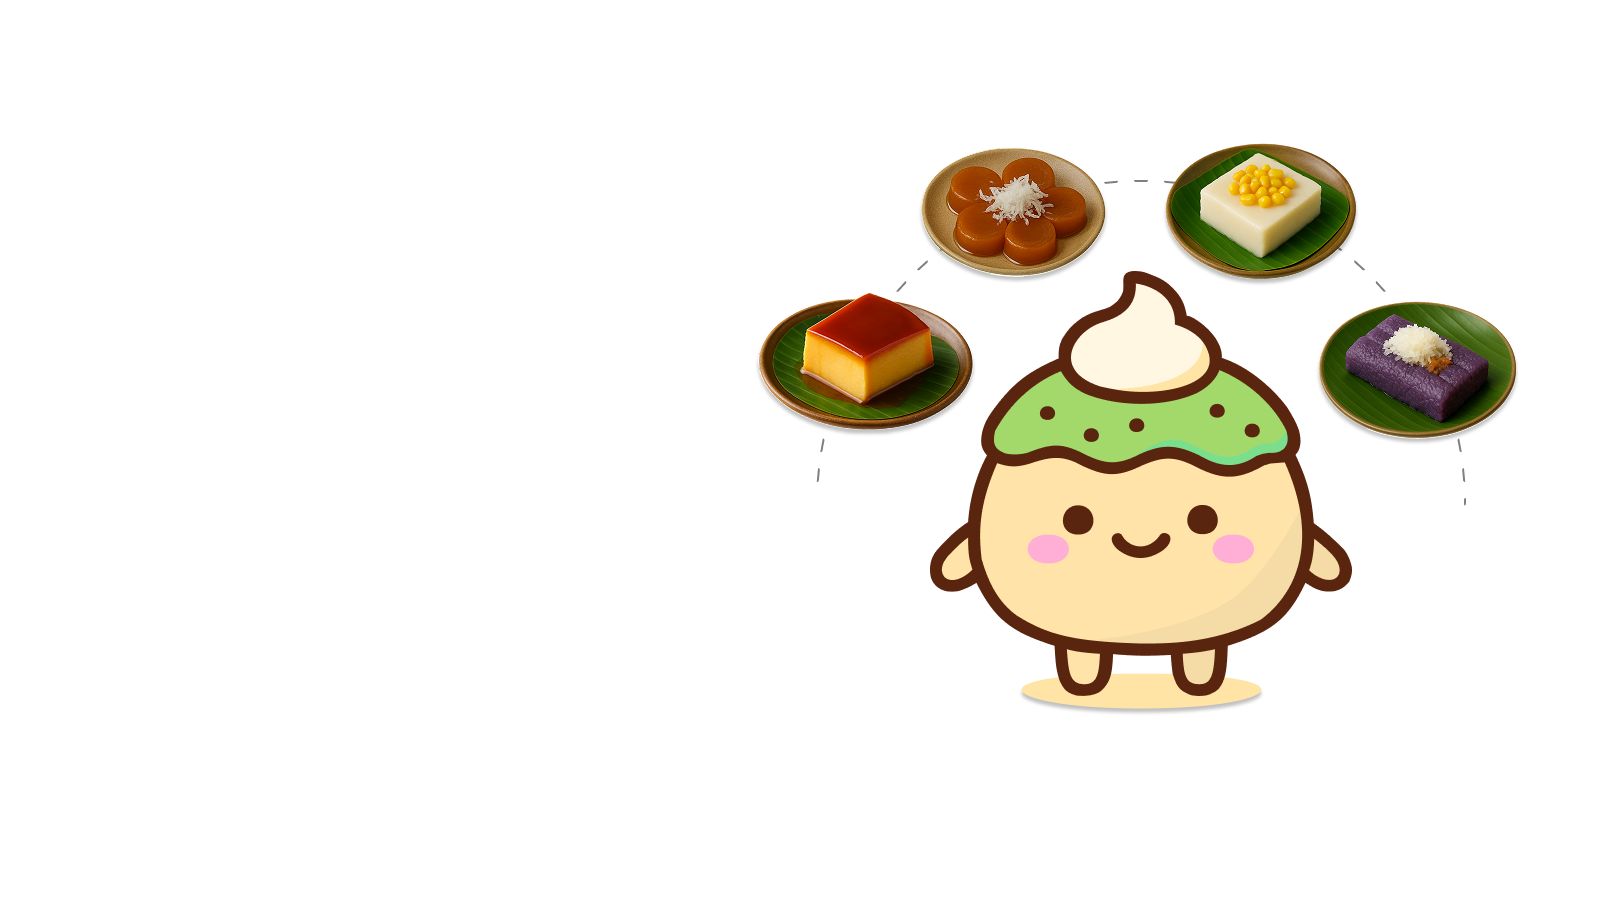
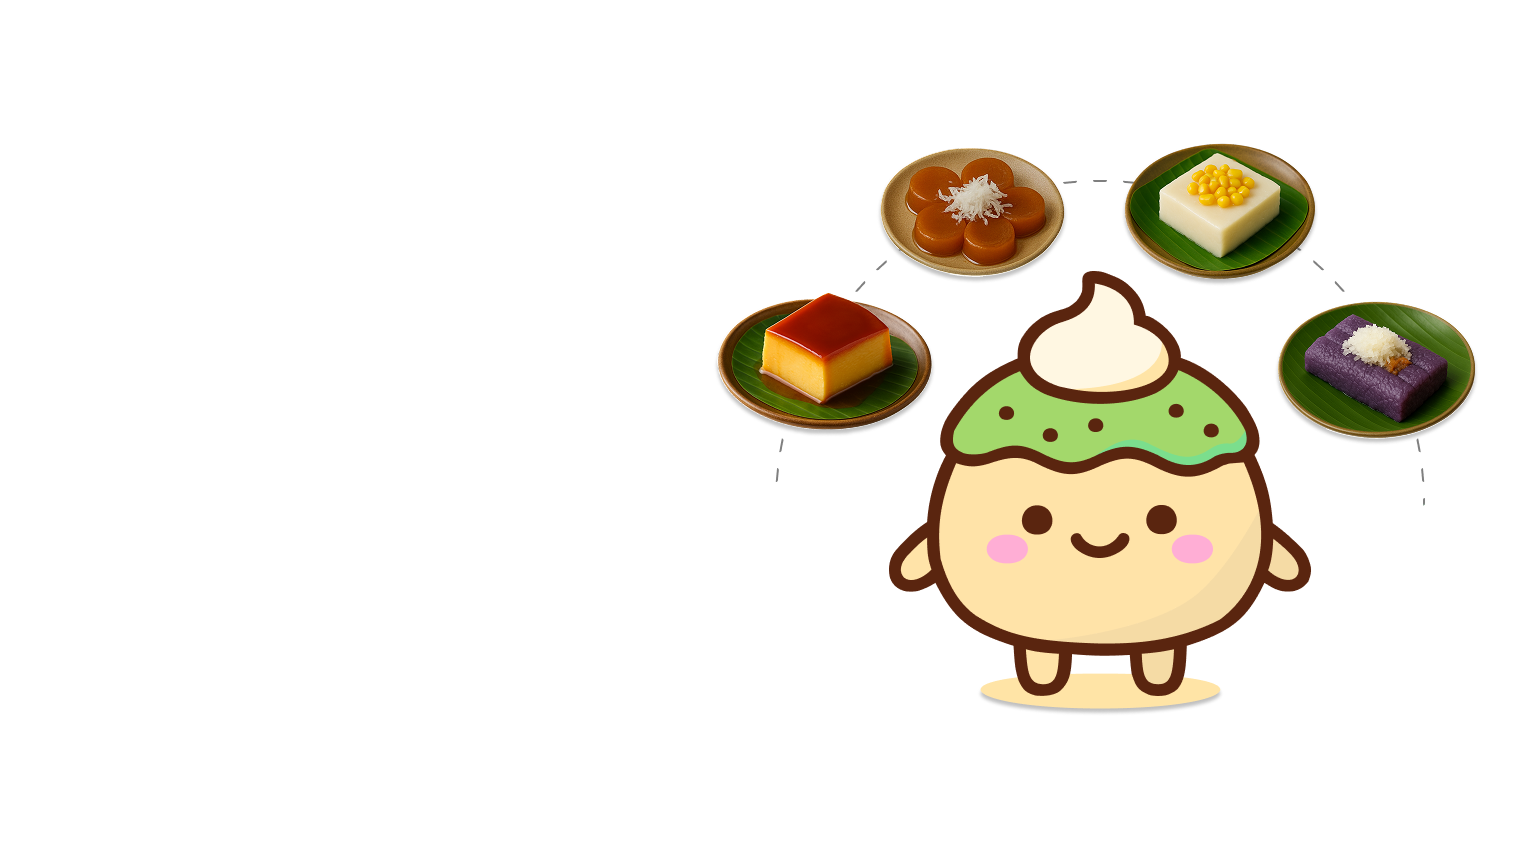
Updated frontend of home

Changed region(s): [[0.4675, 0.1557, 0.9662, 0.8408]]

diff --git a/wwwroot/css/site.css b/wwwroot/css/site.css
@@ -68,7 +68,7 @@ body, header, .navbar, .custom-navbar {
 
 .sweetimpla-hero {
     min-height: 90vh;
-    background: url('/images/MainBG.png') top right no-repeat;
+    background: url('/images/HeroBG.png') top right no-repeat;
     background-size: contain; /* or use cover for full stretch */
     background-color: #fff; /* fallback color */
     display: flex;
@@ -163,6 +163,10 @@ body, header, .navbar, .custom-navbar {
     }
 }
 
+.col-md-4 {
+    min-height: 30px;
+}
+
 /* More spacing between numbered steps in the "How it works" list */
 .buildkit-steps > li {
     margin-bottom: 2.1rem; /* space after each step */
@@ -219,7 +223,7 @@ body, header, .navbar, .custom-navbar {
     height: 100%;
 }
 
-.card-body {
+.kit-card-container .card-body {
     flex: 1 1 0%;
     display: flex;
     flex-direction: column;
